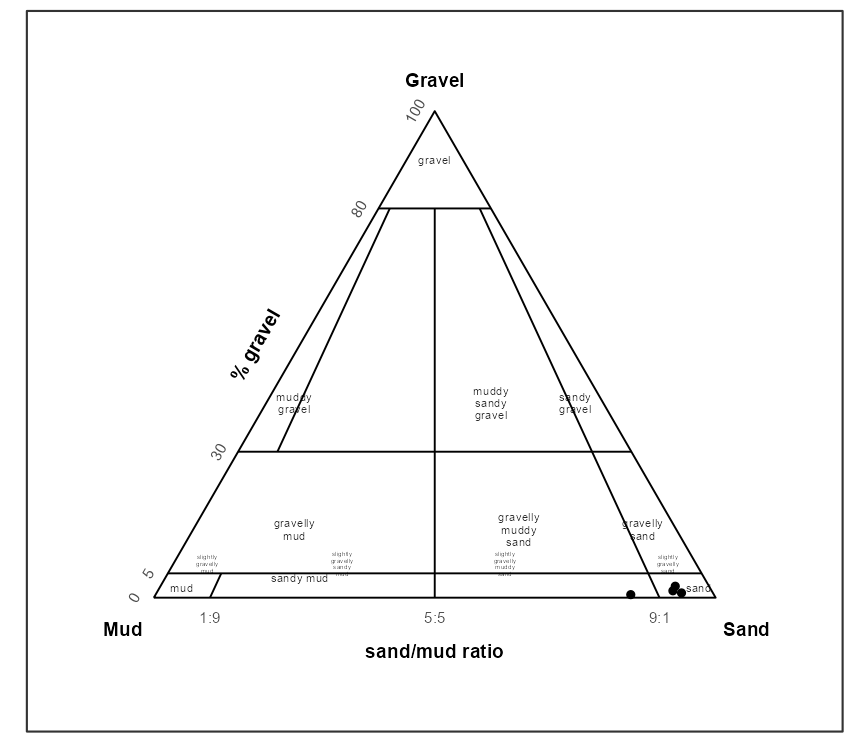
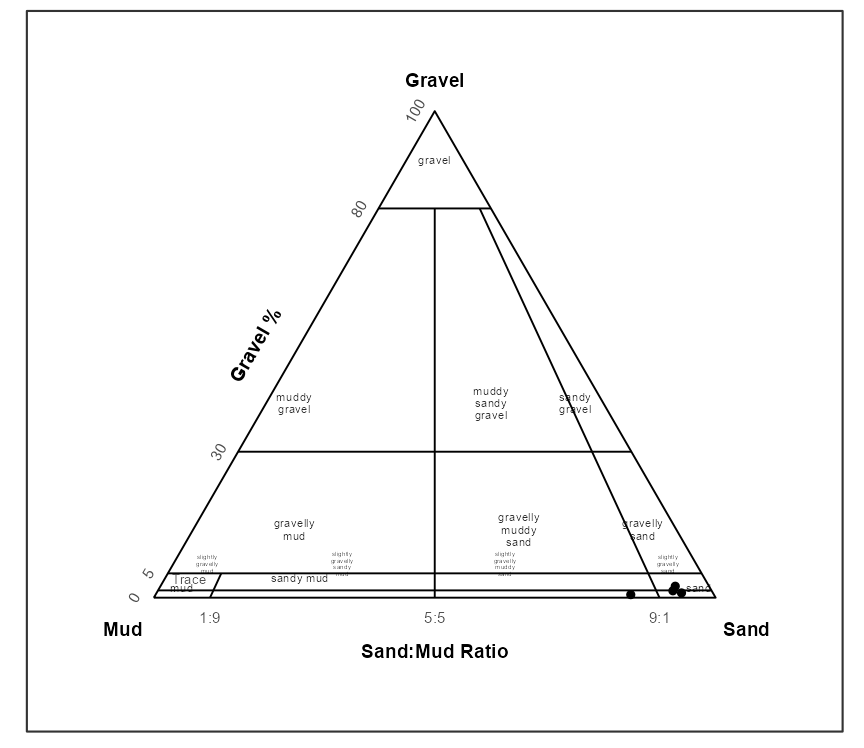
Add GRADISTAT trace guide and centered distribution bars

diff --git a/NEWS.md b/NEWS.md
@@ -2,6 +2,9 @@
 
 ## Development version
 
+- Added a plotting-only GRADISTAT Trace guide while preserving workbook-derived
+  gravel classification thresholds, and restored centered distribution bars for
+  log-scaled grain-size displays.
 - Corrected GRADISTAT gravel-sand-mud ternary plot geometry for the central
   sand/mud boundary and slightly gravelly band, and drew log-scaled
   distribution bars from true size-class boundaries.